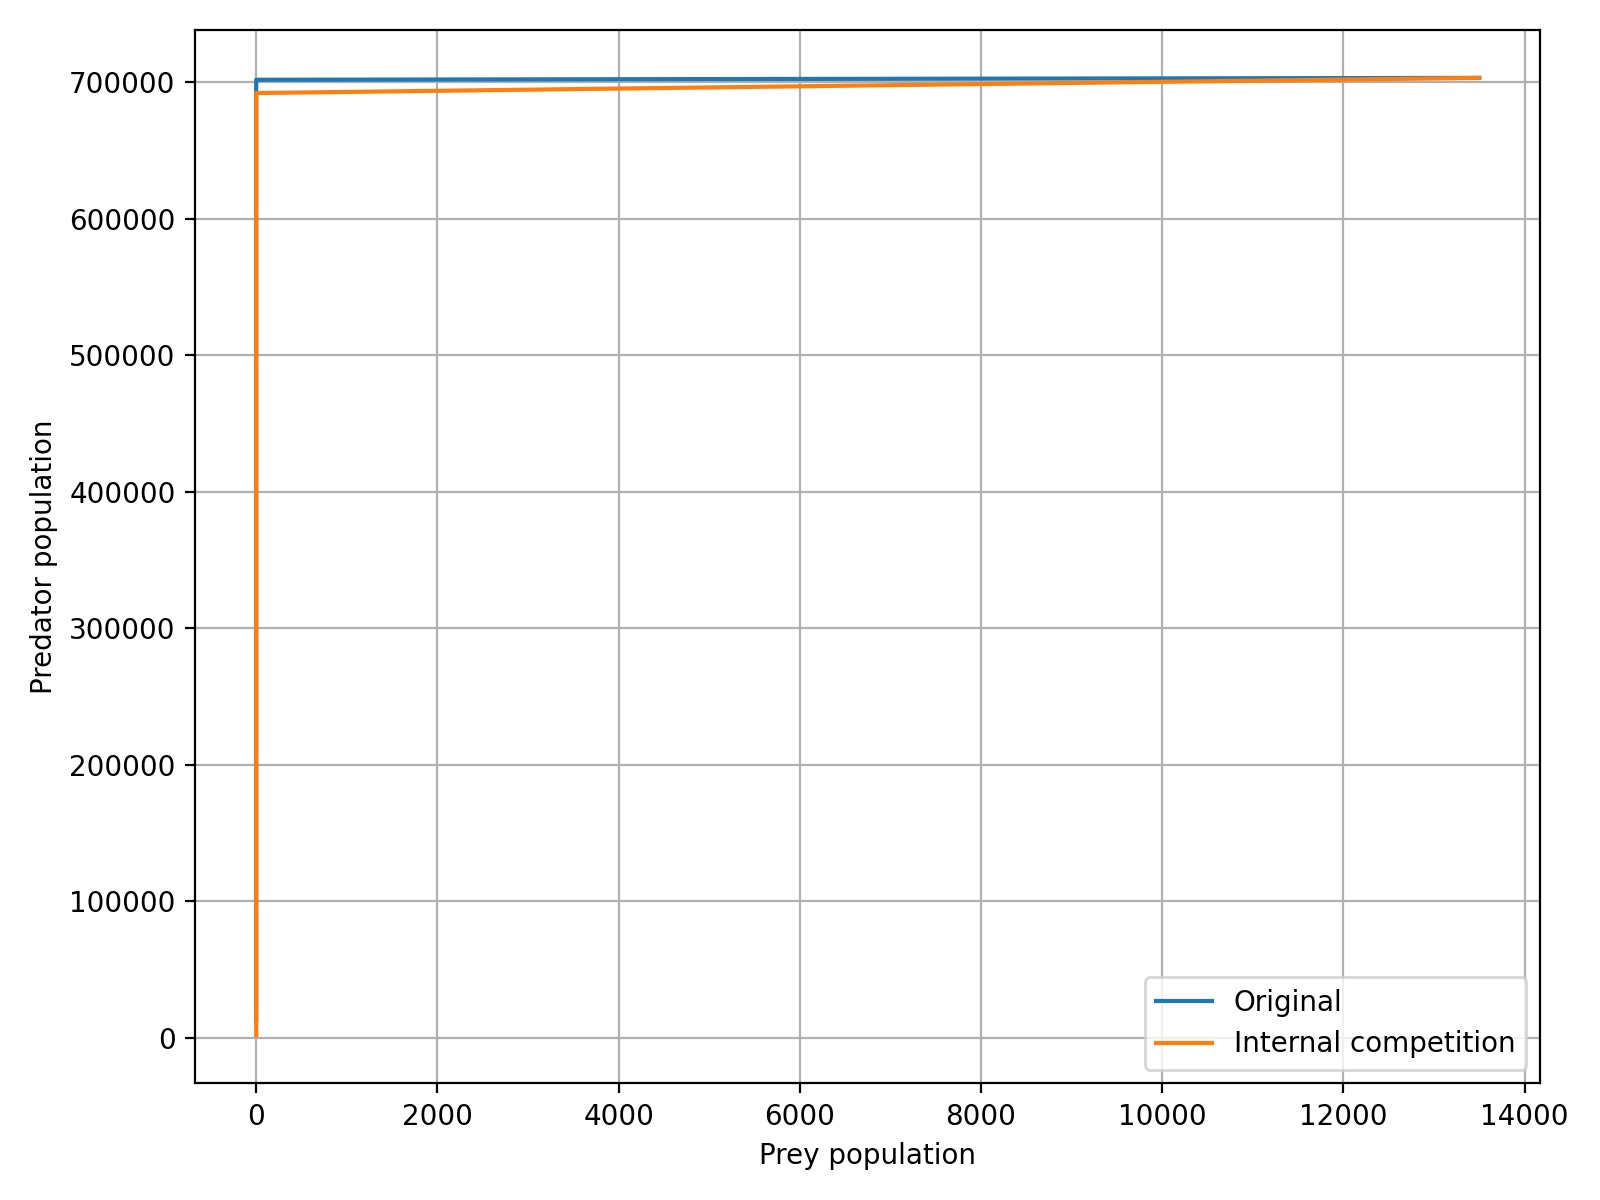
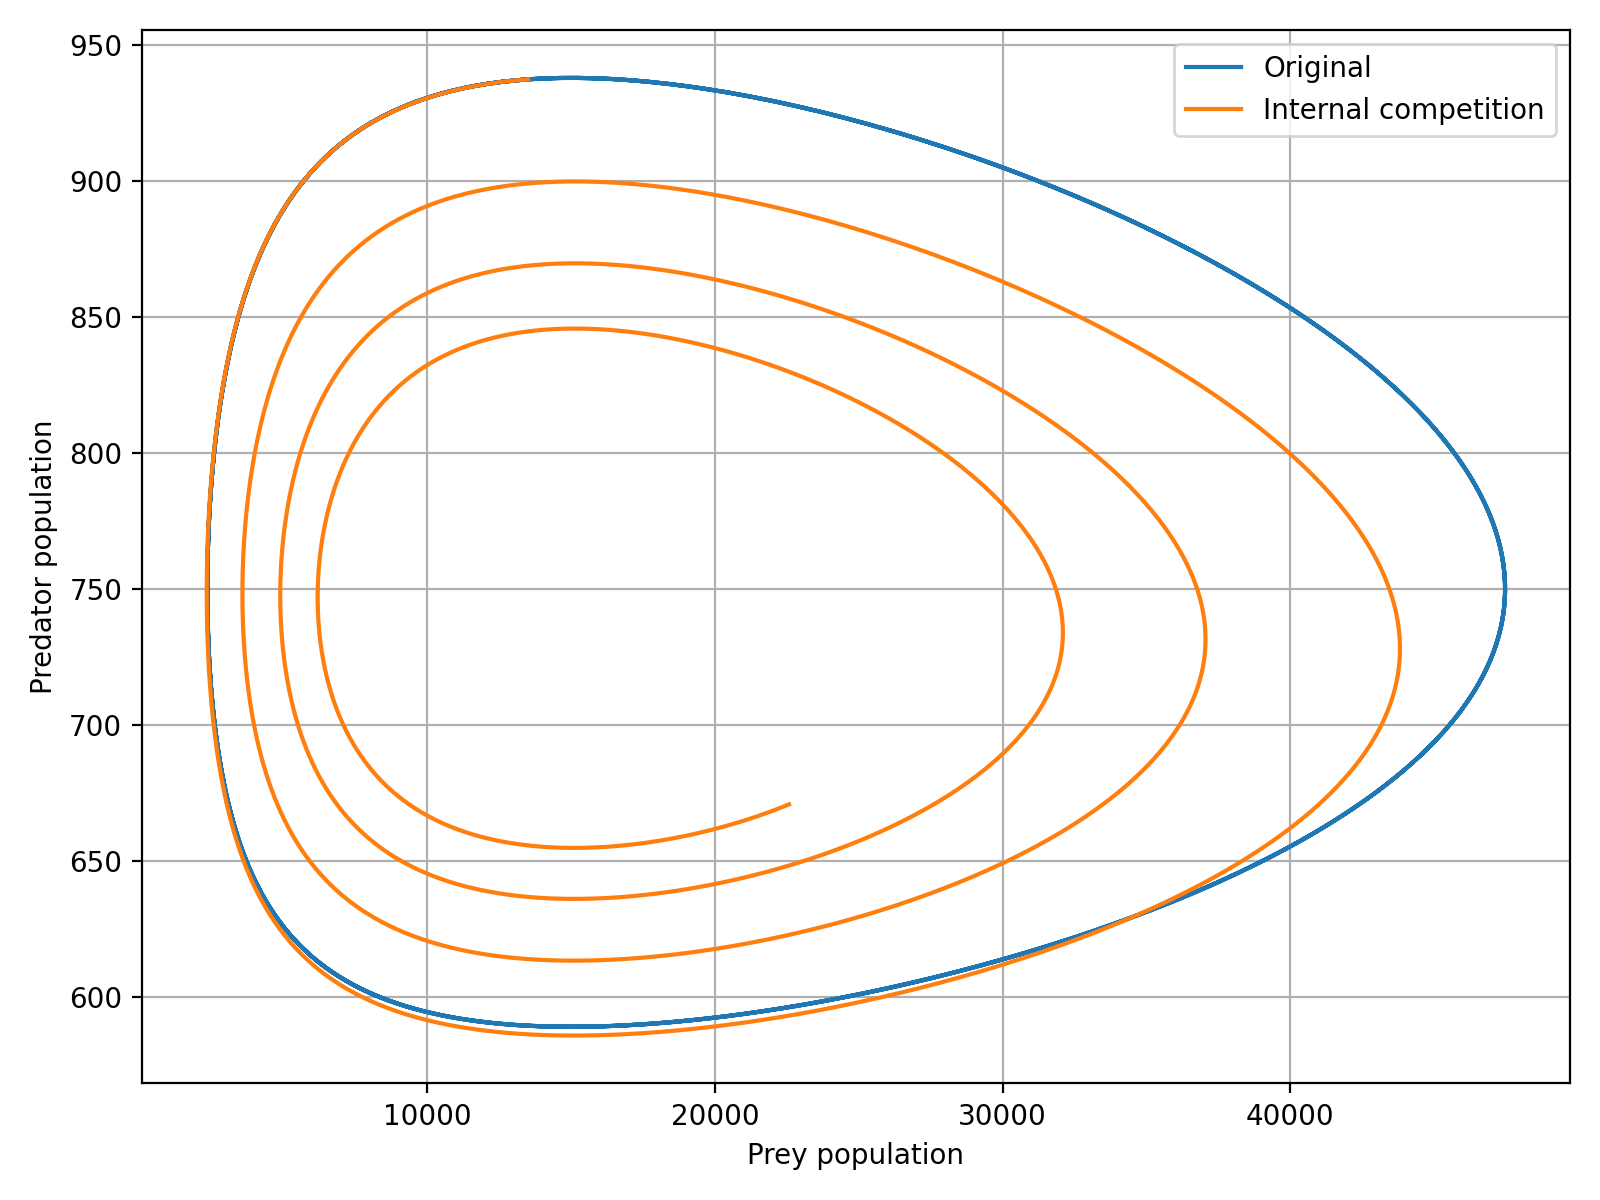
Changes were made to Y_eq_original equation

diff --git a/Module3/predator_prey.py b/Module3/predator_prey.py
@@ -14,7 +14,7 @@ c_y = 0.2 / 100000
 
 # Original equilibrium
 X_eq_original = sigma / delta
-Y_eq_original = eta / delta
+Y_eq_original = eta / gamma
 
 # Initial conditions from the provided MATLAB example
 X0 = 0.9 * X_eq_original
